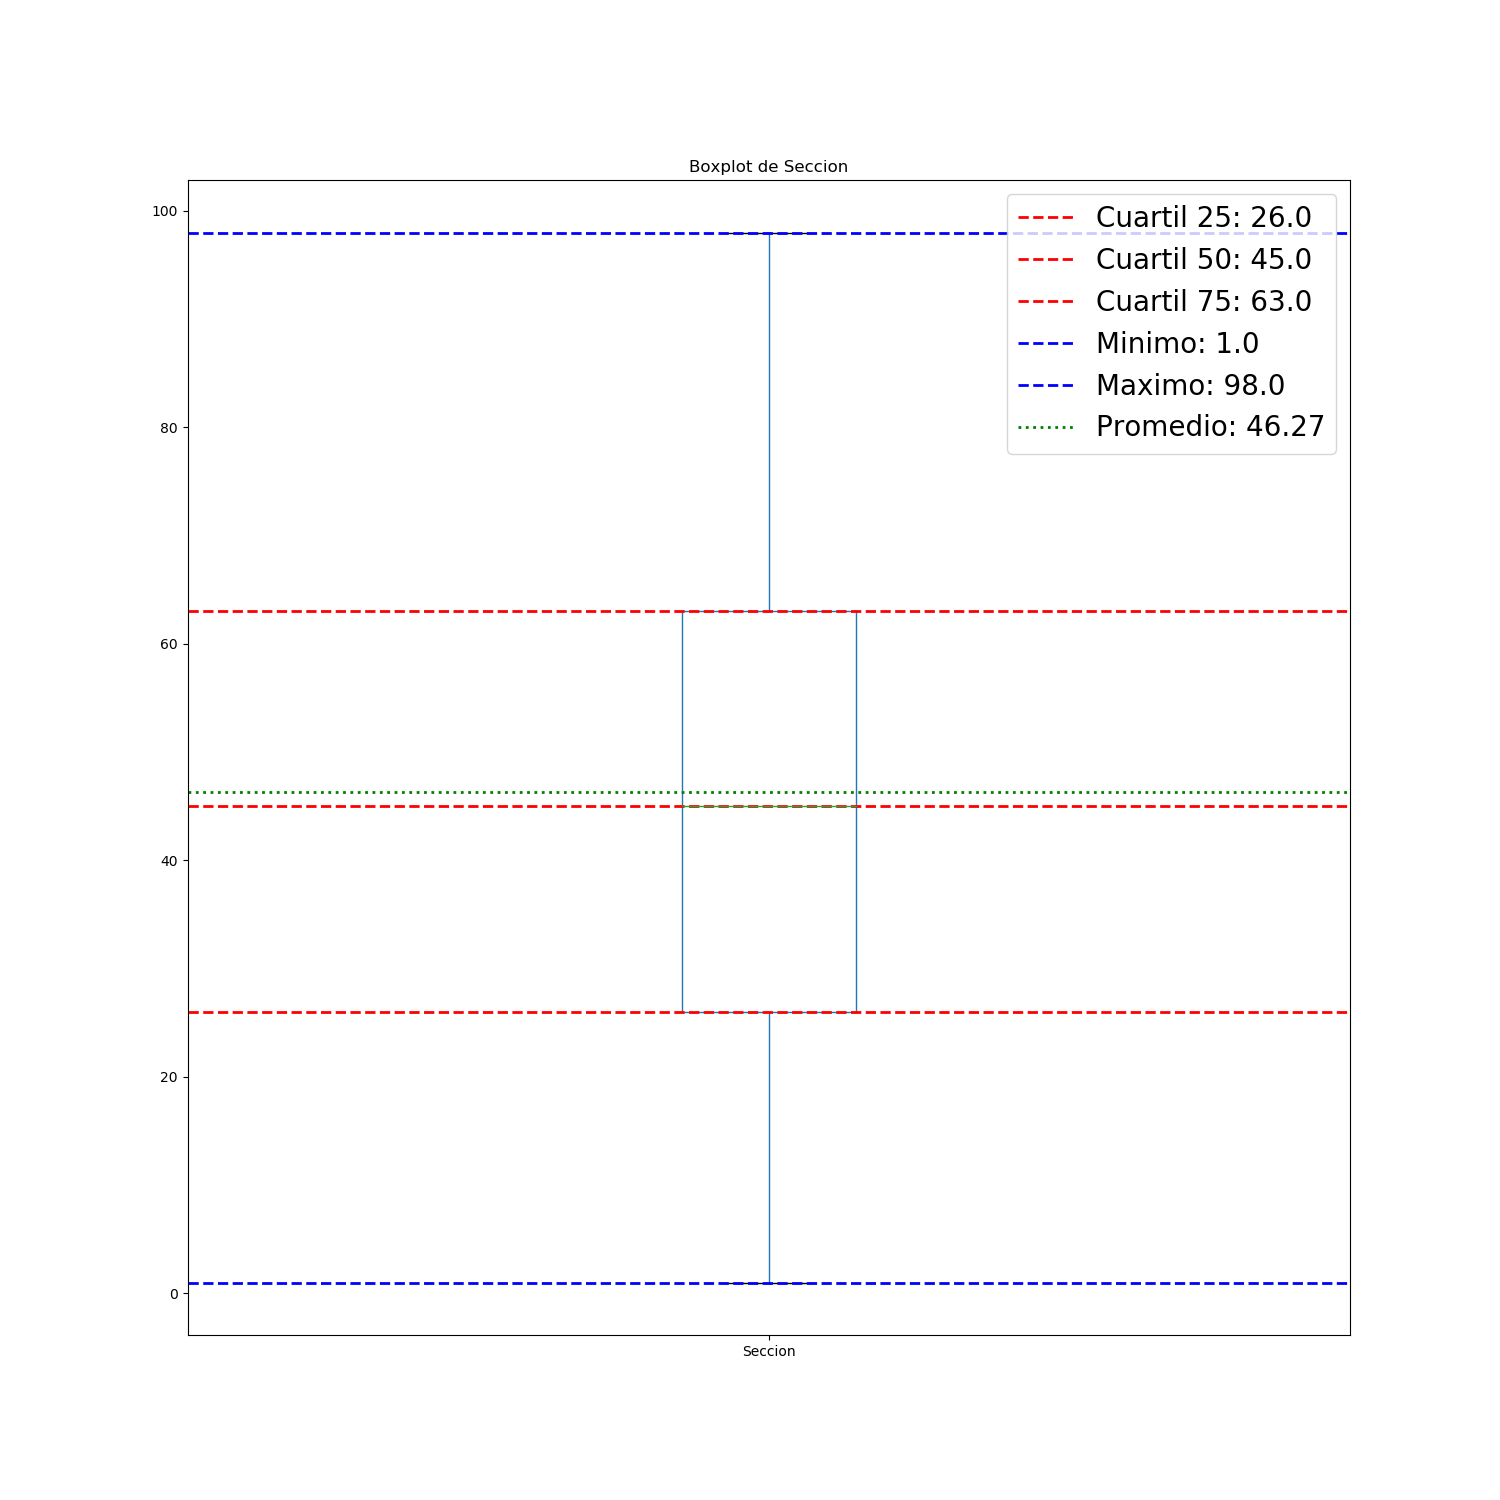
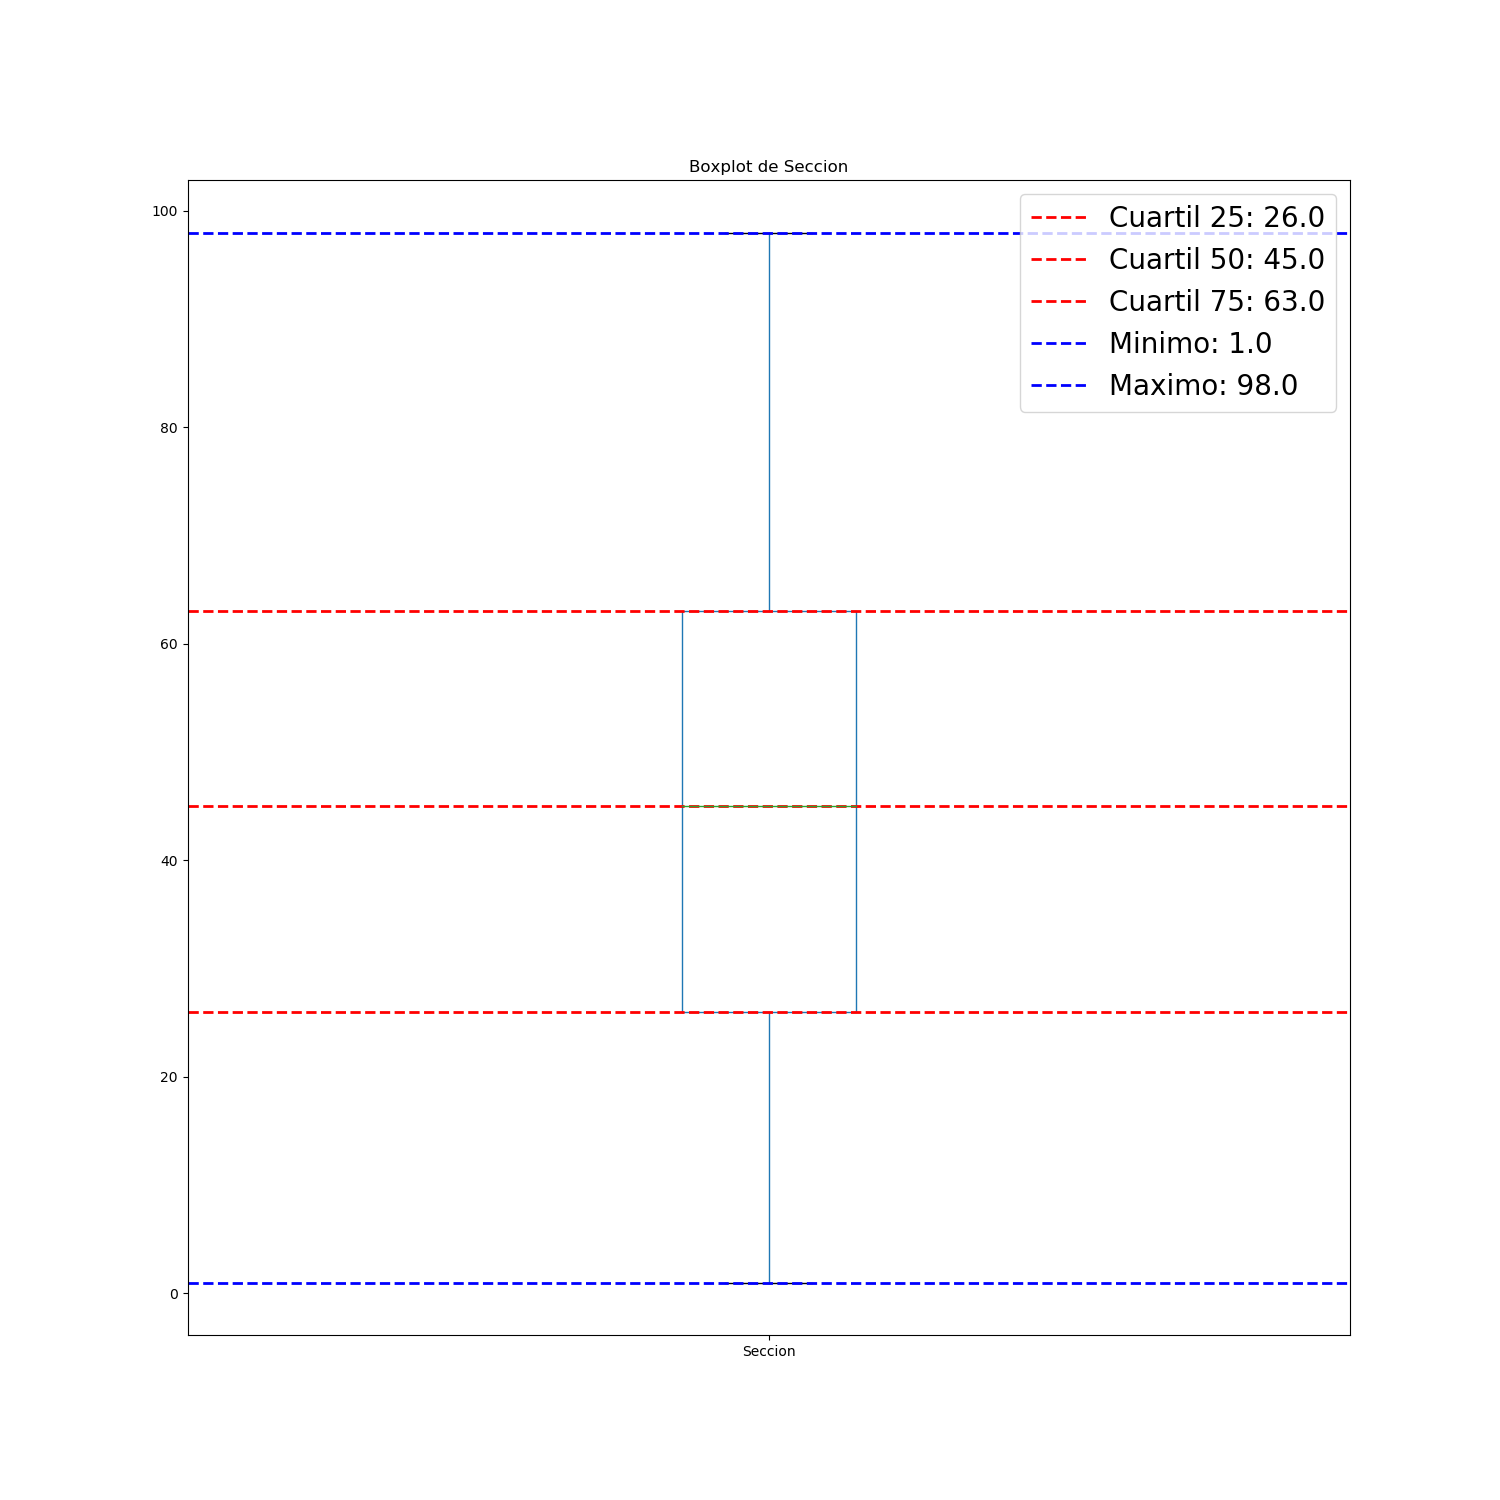
fix en los boxplot

Changed region(s): [[0.736, 0.1227, 0.8893, 0.3067]]

diff --git a/asignaciones/tp-final/analisis_univariado.py b/asignaciones/tp-final/analisis_univariado.py
@@ -75,7 +75,7 @@ def graficoBoxplot(columna, fullDF):
 	ax.axhline(tercerCuartil, color='r', linestyle='--', lw=2, label ='Cuartil 75: ' + str(tercerCuartil))
 	ax.axhline(minimo, color='b', linestyle='--', lw=2, label ='Minimo: ' + str(minimo))
 	ax.axhline(maximo, color='b', linestyle='--', lw=2, label ='Maximo: ' + str(maximo))
-	ax.axhline(mean, color='g', linestyle=':', lw=2, label ='Promedio: ' + str(mean))
+	#ax.axhline(mean, color='g', linestyle=':', lw=2, label ='Promedio: ' + str(mean))
 
 	plt.title('Boxplot de ' + columna)
 	plt.legend(loc='upper right', fontsize=20)
@@ -191,3 +191,10 @@ if __name__ == "__main__":
 	longitud.to_csv('analisisUnivariado/'+ columna.lower()+'.csv', index = False)
 	graficoPuntos(columna,obras)
 	graficoBoxplot(columna,obras)
+
+#Zona
+	columna = "Zona"
+	longitud = crearDataFrameNumerico(obras, columna)
+	longitud.to_csv('analisisUnivariado/'+ columna.lower()+'.csv', index = False)
+	graficoPuntos(columna,obras)
+	graficoBoxplot(columna,obras)	
